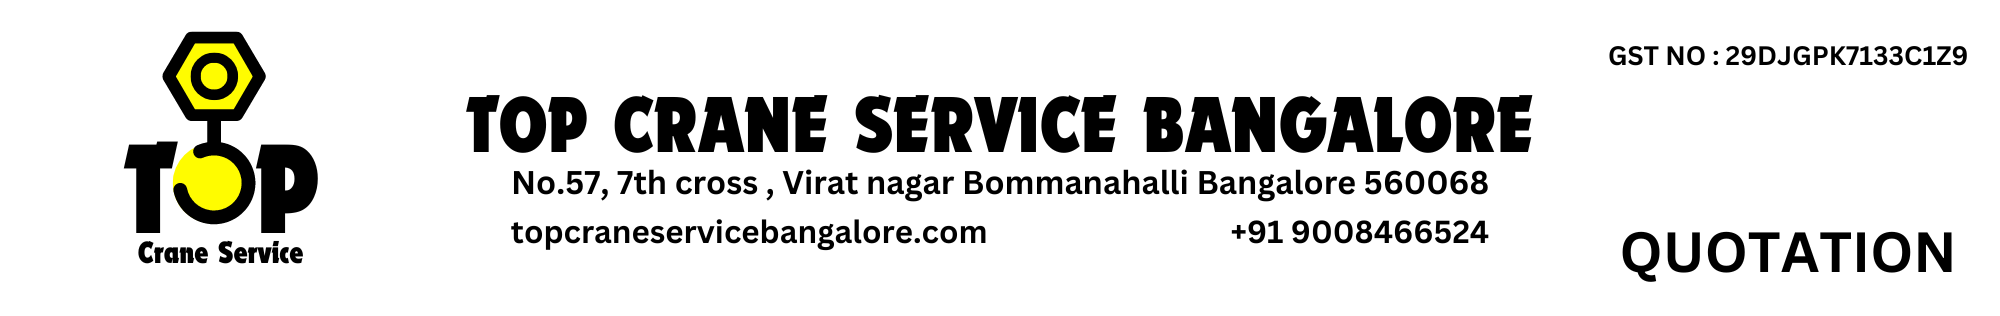
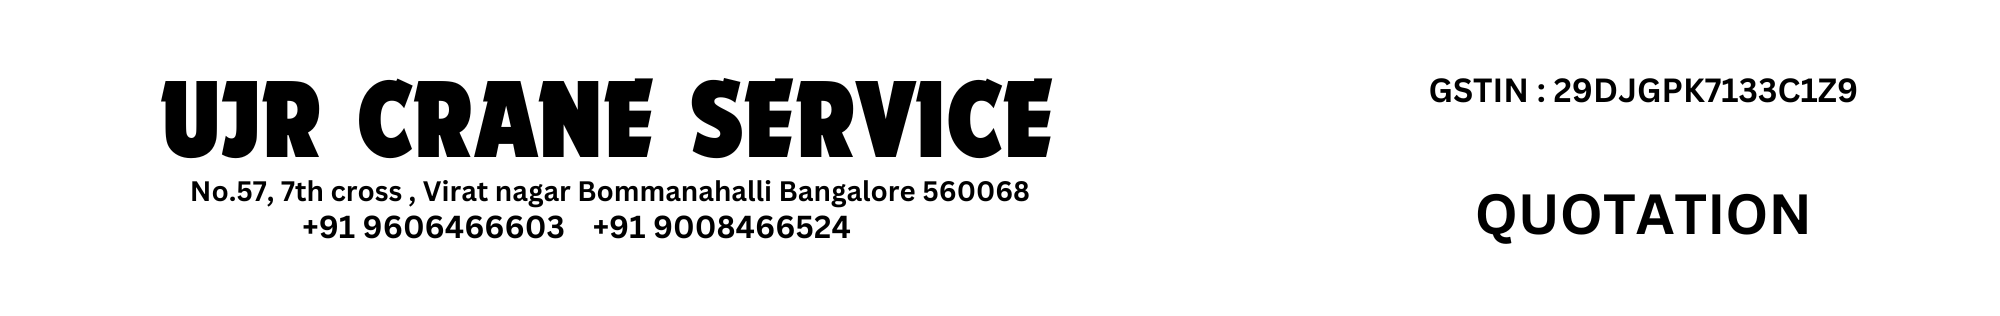
ccc

Changed region(s): [[0.062, 0.0854, 0.992, 0.8829], [0.062, 0.769, 0.155, 0.8544]]

diff --git a/src/Pages/BcsQuotation.js b/src/Pages/BcsQuotation.js
@@ -4,7 +4,7 @@ import { ToWords } from 'to-words';
 import jsPDF from "jspdf";
 import BcsWaterMark from "./Images/Bcswatermark.png"; // Import your logo image
 import Head from "./Images/Head.png"; // Import your logo image
-import Footer from "./Images/Foot.png"; // Import your logo image
+import Footer from "./Images/InvoiceFoot.png"; // Import your logo image
 // import waterMark from "./Images/hmswatermark.png"; // Import your logo image
 
 import callIcon from "./Images/callicon.png"; // Import your logo image
@@ -62,6 +62,7 @@ let BcsQuotation = () => {
     mobile: "",
     address: "",
     gst: "",
+    advanceAmount: ""
    
   });
 
@@ -530,7 +531,7 @@ if (isNaN(formData.advanceAmount) || formData.advanceAmount === 0) {
   return (
     <div className="form-container">
       {/* <h4><Link to="/">Go to Home</Link></h4> */}
-      <h4>TOP Crane Service Quotation</h4>
+      <h4>UJR Crane Service Quotation</h4>
 
       <form onSubmit={handleSubmit}>
         <div className="display-inline">

diff --git a/src/Pages/Menu.js b/src/Pages/Menu.js
@@ -12,7 +12,7 @@ import { BrowserRouter as Router, Routes, Route, Link } from "react-router-dom";
 const Menu = () => {
   return (
     <div className="form-container">
-      <h2 className="headStyle">TOP Crane Service</h2>
+      <h2 className="headStyle">UJR Crane Service</h2>
       
       <div className="button-container">
         <Link to="/BcsQuotation" className="bcsbutton">

diff --git a/public/index.html b/public/index.html
@@ -24,7 +24,7 @@
       work correctly both with client-side routing and a non-root public URL.
       Learn how to configure a non-root public URL by running `npm run build`.
     -->
-    <title>Top Crane Service</title>
+    <title>UJR Crane Service</title>
   </head>
   <body>
     <noscript></noscript>

diff --git a/src/Pages/BcsInvoice.js b/src/Pages/BcsInvoice.js
@@ -497,7 +497,7 @@ console.log(subTotal); // Output the subTotal
       
       <div className="inline-container">
   <div className="invoice-header">
-    <h4>TOP Crane Service Invoice</h4>
+    <h4>UJR Crane Service Invoice</h4>
   </div>
 
   <div className="invoice-input">
